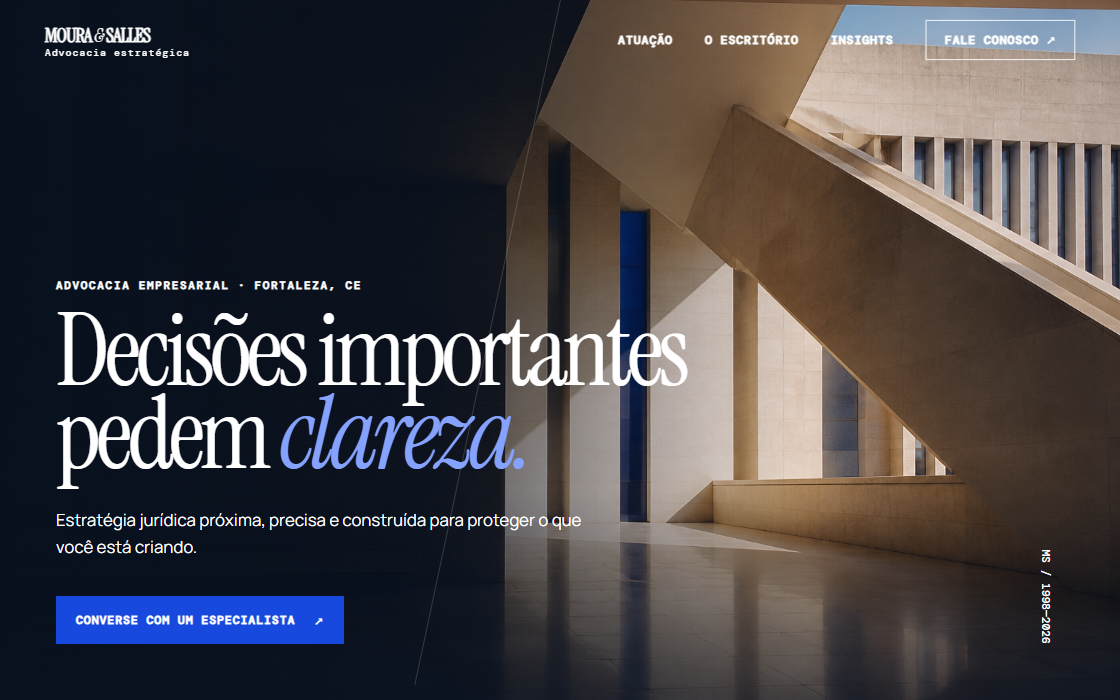
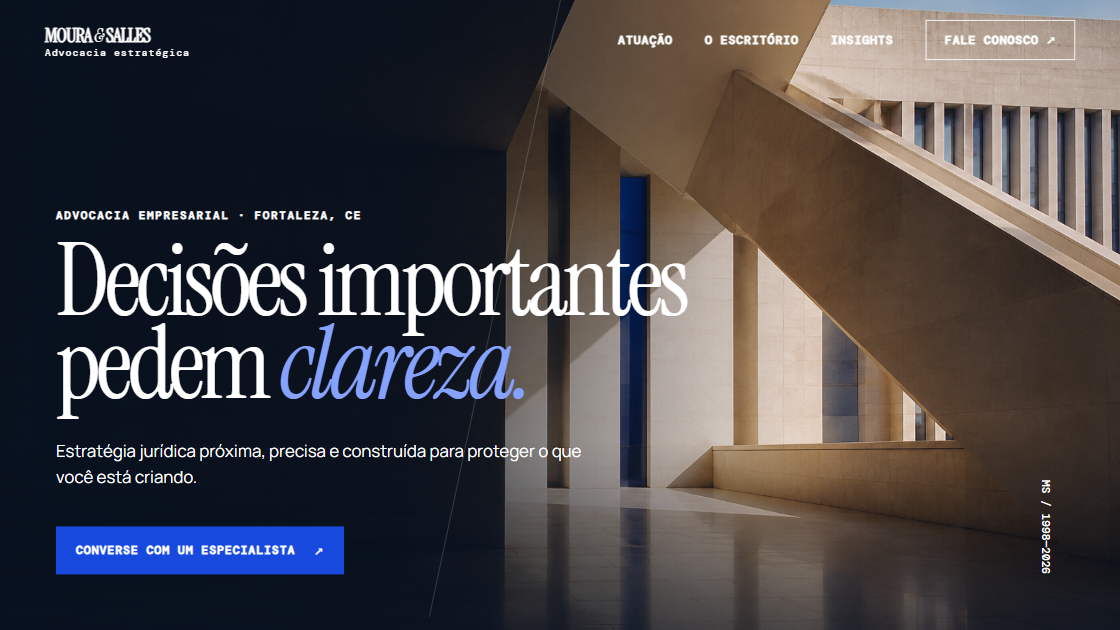
fix: refaz previews do carrossel em 16 por 9

diff --git a/index.html b/index.html
@@ -134,7 +134,7 @@
                     src="assets/projects/nutricao-home.webp"
                     alt="Página inicial do site Lia Nogueira Nutrição"
                     width="1120"
-                    height="700"
+                    height="630"
                     loading="lazy"
                     decoding="async"
                   />
@@ -176,7 +176,7 @@
                     data-src="assets/projects/advocacia-home.webp"
                     alt="Página inicial do site Moura e Salles Advocacia"
                     width="1120"
-                    height="700"
+                    height="630"
                     loading="lazy"
                     decoding="async"
                   />
@@ -222,7 +222,7 @@
                     data-src="assets/projects/marketing-home.webp"
                     alt="Página inicial do site Pulso Marketing e Conteúdo"
                     width="1120"
-                    height="700"
+                    height="630"
                     loading="lazy"
                     decoding="async"
                   />

diff --git a/MEMORIA-SITE-LEVY.md b/MEMORIA-SITE-LEVY.md
@@ -70,7 +70,7 @@ Cada cartão da seção de projetos abre sua respectiva demonstração. As três
 
 Para deixar a navegação evidente, cada prévia possui um CTA flutuante “Abrir site” e cada bloco de informações apresenta o botão “Ver site completo”, ambos bilíngues e com feedback de hover e foco.
 
-A seção de projetos usa um carrossel centralizado com largura máxima de 1120 px e um site por vez. Ele alterna automaticamente a cada 5 segundos, possui setas e indicadores para controle manual, aceita gesto lateral no celular, pausa durante interação e respeita movimento reduzido. As prévias são capturas reais em 16:9 do início de cada site, armazenadas em `assets/projects/` como WebP de 1120 × 700 px para reduzir carregamento e consumo de memória. Apenas a primeira captura é baixada inicialmente; as demais carregam sob demanda ao entrar no carrossel.
+A seção de projetos usa um carrossel centralizado com largura máxima de 1120 px e um site por vez. Ele alterna automaticamente a cada 5 segundos, possui setas e indicadores para controle manual, aceita gesto lateral no celular, pausa durante interação e respeita movimento reduzido. As prévias são capturas reais em 16:9 do início de cada site, armazenadas em `assets/projects/` como WebP de 1120 × 630 px para corresponder exatamente à moldura, preservar a navbar e reduzir carregamento. Apenas a primeira captura é baixada inicialmente; as demais carregam sob demanda ao entrar no carrossel.
 
 As imagens principais das três demos foram geradas especialmente para os projetos e estão dentro das respectivas pastas `assets`.
 
